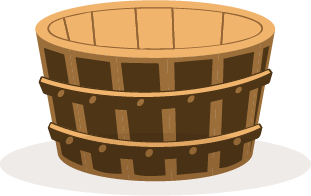
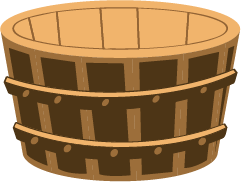
Object images done

diff --git a/controller/Controller.js b/controller/Controller.js
@@ -2,8 +2,14 @@ let fondo;
 let logica;
 
 let title;
-let spoon;
 let stick;
+let bird;
+let bucket;
+let mouse;
+let sausage;
+let table;
+let spoon;
+let hat;
 
 class Controller {
 
@@ -12,7 +18,14 @@ class Controller {
         this.app = app;
         this.fondo = new Fondo(app);
         this.logica = new Logica(app);
-        this.stick = new Stick(app,500,500);
+        this.stick = new Stick(app, 750, 550);
+        this.bird = new Bird(app, 860, 440);
+        this.bucket = new Bucket(app, 470, 540);
+        this.mouse = new Mouse(app, 580, 460);
+        this.sausage = new Sausage(app, 300, 420);
+        this.table = new Table(app, -50 + 30, 470);
+        this.hat = new Hat(app, 70 + 30, 460);
+        this.spoon = new Spoon(app, 40, 475);
         this.logica.loadTale();
 
     }
@@ -22,10 +35,17 @@ class Controller {
         this.fondo.drawFondo();
         this.logica.drawTale();
         this.stick.drawElemento();
+        this.bird.drawElemento();
+        this.bucket.drawElemento();
+        this.mouse.drawElemento();
+        this.sausage.drawElemento();
+        this.table.drawElemento();
+        this.hat.drawElemento();
+        this.spoon.drawElemento();
 
     }
 
-    saveChanges(){
+    saveChanges() {
 
         this.logica.saveTale();
 

diff --git a/index.html b/index.html
@@ -8,13 +8,19 @@
     <script src="p5.js"></script>
 
     <script src='./model/Fondo.js'></script>
-    <script src='./model/Elemento.js'></script>
+
     <script src='./model/Logica.js'></script>
+
+    <script src='./model/Elemento.js'></script>
     <script src='./model/Bucket.js'></script>
     <script src='./model/Hat.js'></script>
     <script src='./model/Table.js'></script>
     <script src='./model/Stick.js'></script>
     <script src='./model/Spoon.js'></script>
+    
+    <script src='./model/Bird.js'></script>
+    <script src='./model/Sausage.js'></script>
+    <script src='./model/Mouse.js'></script>
 
     <script src='./view/Main.js'></script>
 

diff --git a/model/Mouse.js b/model/Mouse.js
@@ -1,6 +1,16 @@
-class Mouse extends Elemento{
+class Mouse extends Elemento {
 
-    constructor(){
+    constructor(app, x, y) {
+
+        super(app, x, y);
+        this.mouseImage = this.app.loadImage("./data/images/mouse.png");
+        this.mouseImageS = this.app.loadImage("./data/images/mouseSelected.png");
+
+    }
+
+    drawElemento() {
+
+        this.app.image(this.mouseImage, this.x - (this.app.mouseX * 0.02), this.y, 100, 138);
 
     }
 }

diff --git a/model/Bird.js b/model/Bird.js
@@ -1,6 +1,16 @@
-class Bird extends Elemento{
+class Bird extends Elemento {
 
-    constructor(){
+    constructor(app, x, y) {
+
+        super(app, x, y);
+        this.birdImage = this.app.loadImage("./data/images/bird.png");
+        this.birdImageS =  this.app.loadImage("./data/images/birdSelected.png");
+
+    }
+
+    drawElemento() {
+
+        this.app.image(this.birdImage, this.x  - (this.app.mouseX * 0.02), this.y, 150, 160);
 
     }
 }

diff --git a/model/bucket.js b/model/bucket.js
@@ -1,8 +1,16 @@
 class Bucket extends Elemento{
 
-    constructor(){
+    constructor(app, x, y) {
 
-        
+        super(app, x, y);
+        this.bucketImage = this.app.loadImage("./data/images/bucket.png");
+        this.bucketFilledImage = this.app.loadImage("./data/images/bucketFilled.png");
+
+    }
+
+    drawElemento() {
+
+        this.app.image(this.bucketImage, this.x  - (this.app.mouseX * 0.02), this.y, 80, 60);
 
     }
 }

diff --git a/model/Sausage.js b/model/Sausage.js
@@ -1,6 +1,16 @@
 class Sausage extends Elemento{
 
-    constructor(){
+    constructor(app, x, y) {
+
+        super(app, x, y);
+        this.sausageImage = this.app.loadImage("./data/images/sausage.png");
+        this.sausageImageS = this.app.loadImage("./data/images/sausageSelected.png");
+
+    }
+
+    drawElemento() {
+
+        this.app.image(this.sausageImage, this.x - (this.app.mouseX * 0.02), this.y, 80, 180);
 
     }
 }

diff --git a/model/spoon.js b/model/spoon.js
@@ -1,6 +1,16 @@
 class Spoon extends Elemento{
 
-    constructor(){
+    constructor(app, x, y) {
+
+        super(app, x, y);
+        this.spoonImage = this.app.loadImage("./data/images/spoon.png");
+        this.spoonImageS = this.app.loadImage("./data/images/spoonSelected.png");
+
+    }
+
+    drawElemento() {
+
+        this.app.image(this.spoonImage, this.x - (this.app.mouseX * 0.02), this.y, 60, 20);
 
     }
 }

diff --git a/model/hat.js b/model/hat.js
@@ -1,7 +1,16 @@
 class Hat extends Elemento{
 
-    constructor(){
+    constructor(app, x, y) {
 
-        
+        super(app, x, y);
+        this.hatImage = this.app.loadImage("./data/images/hat.png");
+        this.hatImageS = this.app.loadImage("./data/images/hatSelected.png");
+
+    }
+
+    drawElemento() {
+
+        this.app.image(this.hatImage, this.x - (this.app.mouseX * 0.02), this.y, 50, 30);
+
     }
 }

diff --git a/model/table.js b/model/table.js
@@ -1,11 +1,15 @@
-class Tables extends Elemento{
+class Table extends Elemento{
 
-    constructor(){
+    constructor(app, x, y) {
+
+        super(app, x, y);
+        this.tableImage = this.app.loadImage("./data/images/table.png");
 
     }
 
-    drawObject(){
+    drawElemento() {
 
+        this.app.image(this.tableImage, this.x - (this.app.mouseX * 0.02), this.y, 190, 130);
 
     }
 }

diff --git a/model/stick.js b/model/stick.js
@@ -9,7 +9,7 @@ class Stick extends Elemento {
 
     drawElemento() {
 
-        this.app.image(this.stickImage, this.x, this.y, 100, 60);
+        this.app.image(this.stickImage, this.x  - (this.app.mouseX * 0.02), this.y, 100, 60);
 
     }
 
